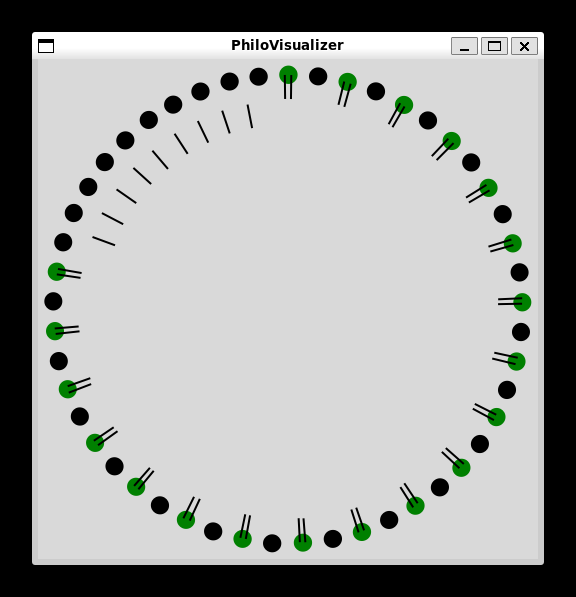
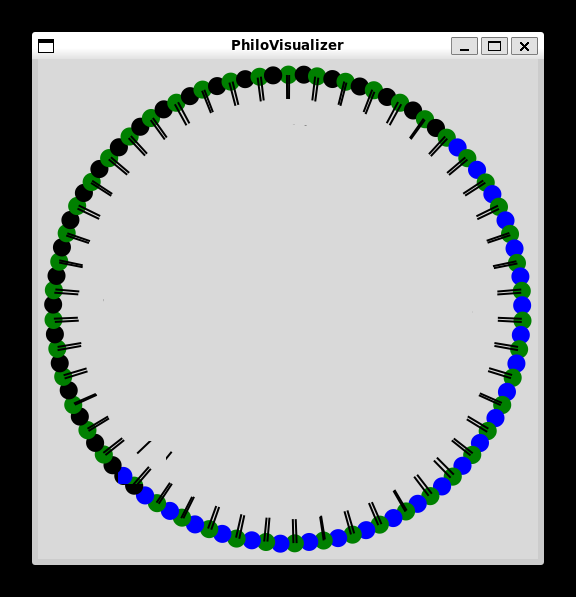
update

Changed region(s): [[0.0625, 0.0905, 0.9375, 0.9347], [0.1875, 0.3618, 0.2188, 0.392]]

diff --git a/philo_visualizer.py b/philo_visualizer.py
@@ -113,13 +113,13 @@ class PhiloVisualizer(atk.AsyncTk):
 			elif action == 0b0011:
 				self.change_philostate(philo, PhiloState.DIED)
 			elif action == 0b0100:
-				self.change_forkstate(philo, True, 1)
-			elif action == 0b0101:
-				self.change_forkstate(philo, False, 1)
-			elif action == 0b0110:
 				self.change_forkstate(philo, True, -1)
-			elif action == 0b0111:
+			elif action == 0b0101:
 				self.change_forkstate(philo, False, -1)
+			elif action == 0b0110:
+				self.change_forkstate(philo, True, 1)
+			elif action == 0b0111:
+				self.change_forkstate(philo, False, 1)
 			# await asyncio.sleep(0.01)
 
 async def main(path):
@@ -127,7 +127,7 @@ async def main(path):
 		os.mkfifo(PATH)
 	await asyncio.create_subprocess_exec(*sys.argv[1:])
 	app = PhiloVisualizer()
-	with await async_open(path, "rb") as reader:
+	with await async_open(path, "rb", buffering=0) as reader:
 		task = asyncio.create_task(app.start(reader))
 		await app.async_mainloop()
 		task.cancel()

diff --git a/async_tkinter.py b/async_tkinter.py
@@ -1,5 +1,6 @@
 import asyncio
 import tkinter as tk
+from _tkinter import TclError
 
 class AsyncTk(tk.Tk):
 	def __init__(self, *args, **kwds):
@@ -9,14 +10,15 @@ class AsyncTk(tk.Tk):
 	@property
 	def running(self):
 		return self.__running
-	def destroy(self):
-		self.__running = False
-		return super().destroy()
 	async def async_mainloop(self):
-		self.__running = True
 		try:
-			while self.running:
+			self.__running = True
+			while True:
 				self.update()
 				await asyncio.sleep(0)
+		except TclError:
+			pass
 		except asyncio.CancelledError:
-			self.destroy()
+			pass
+		finally:
+			self.__running = False
